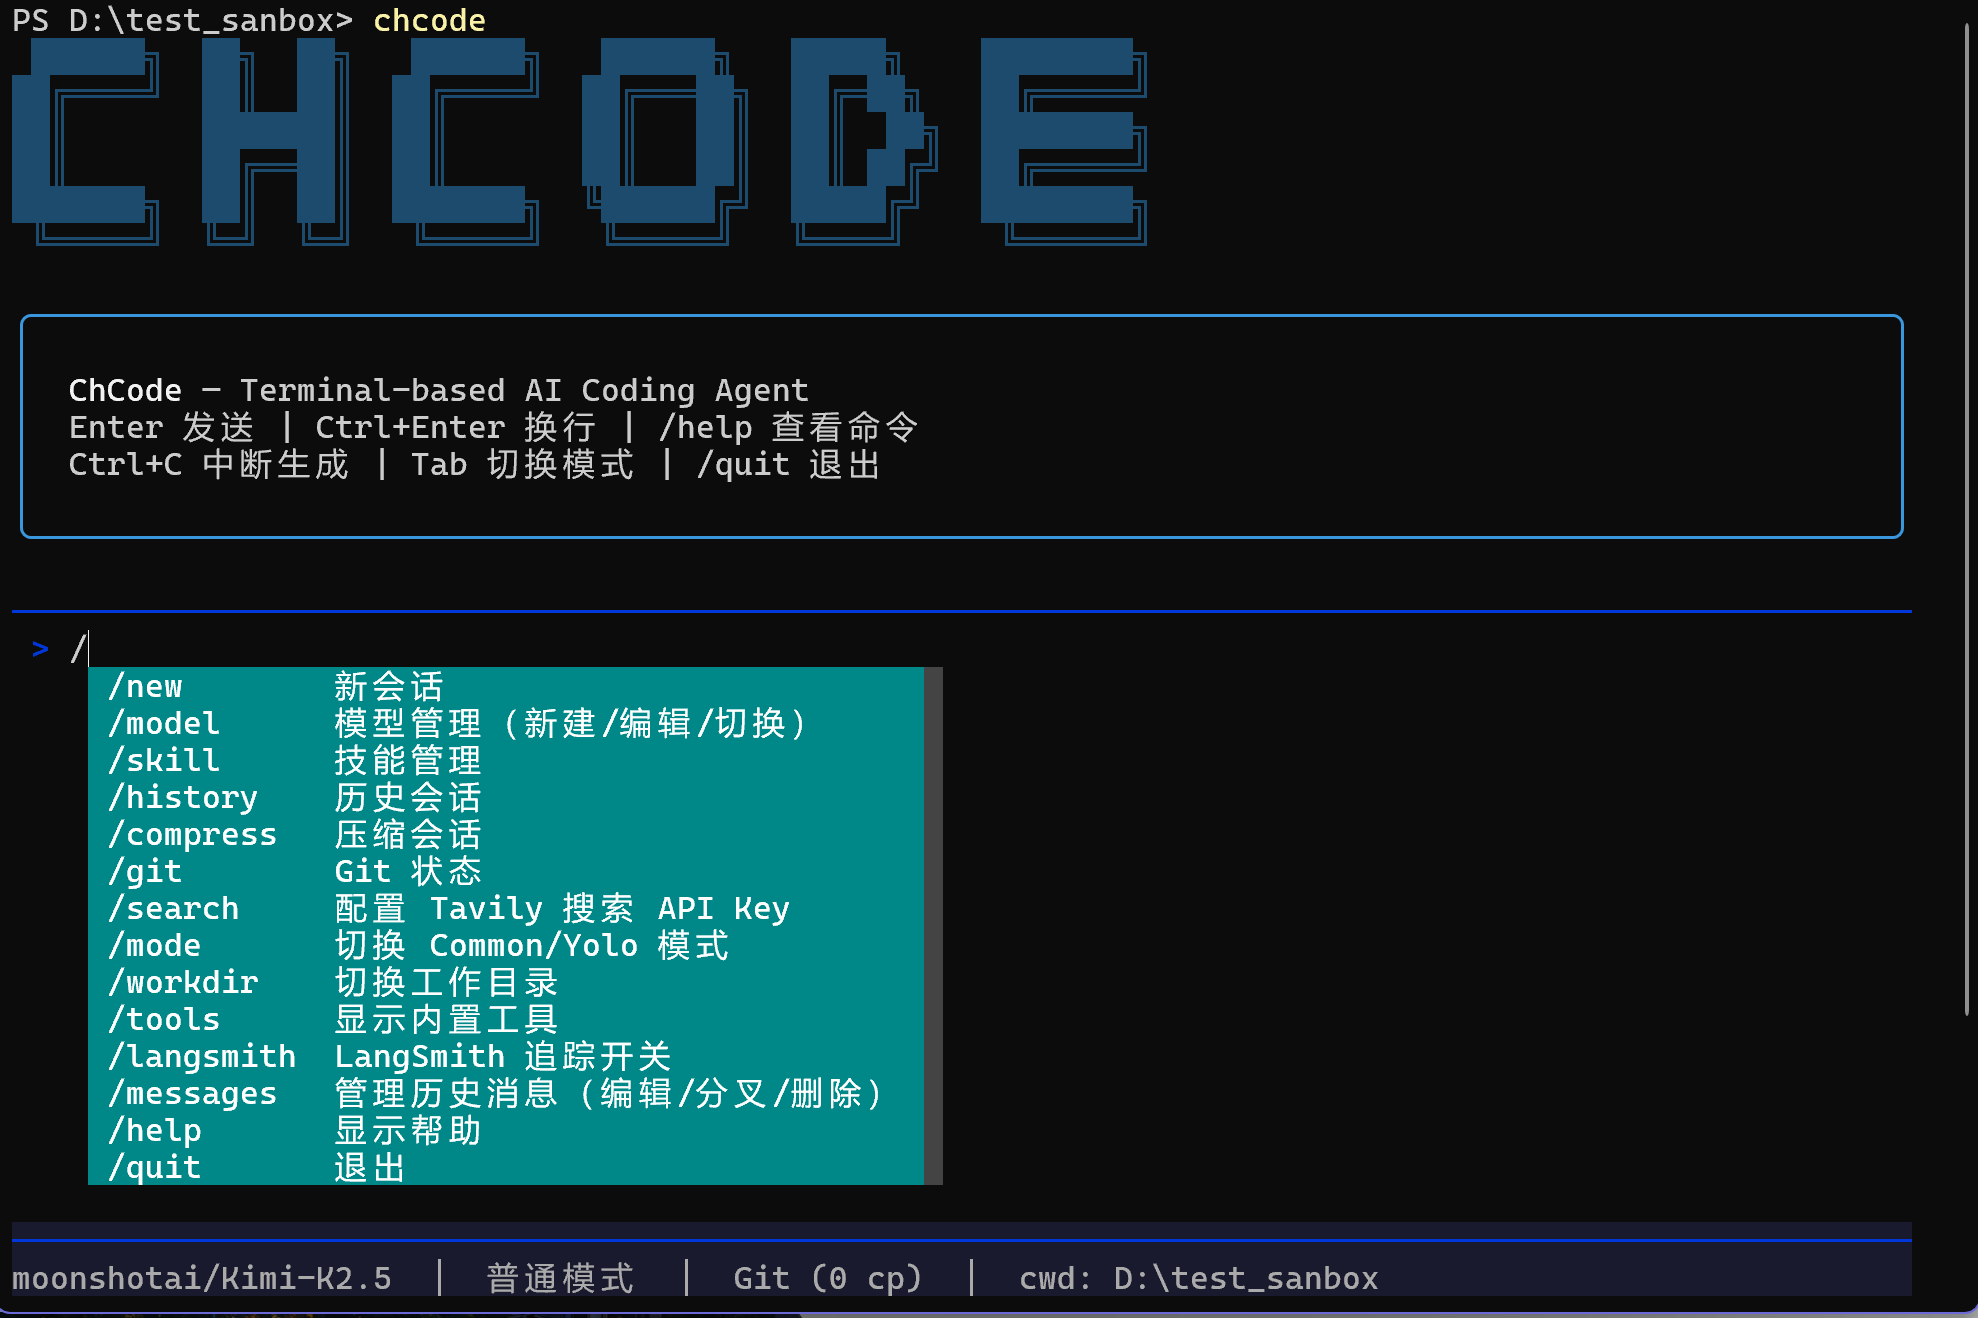
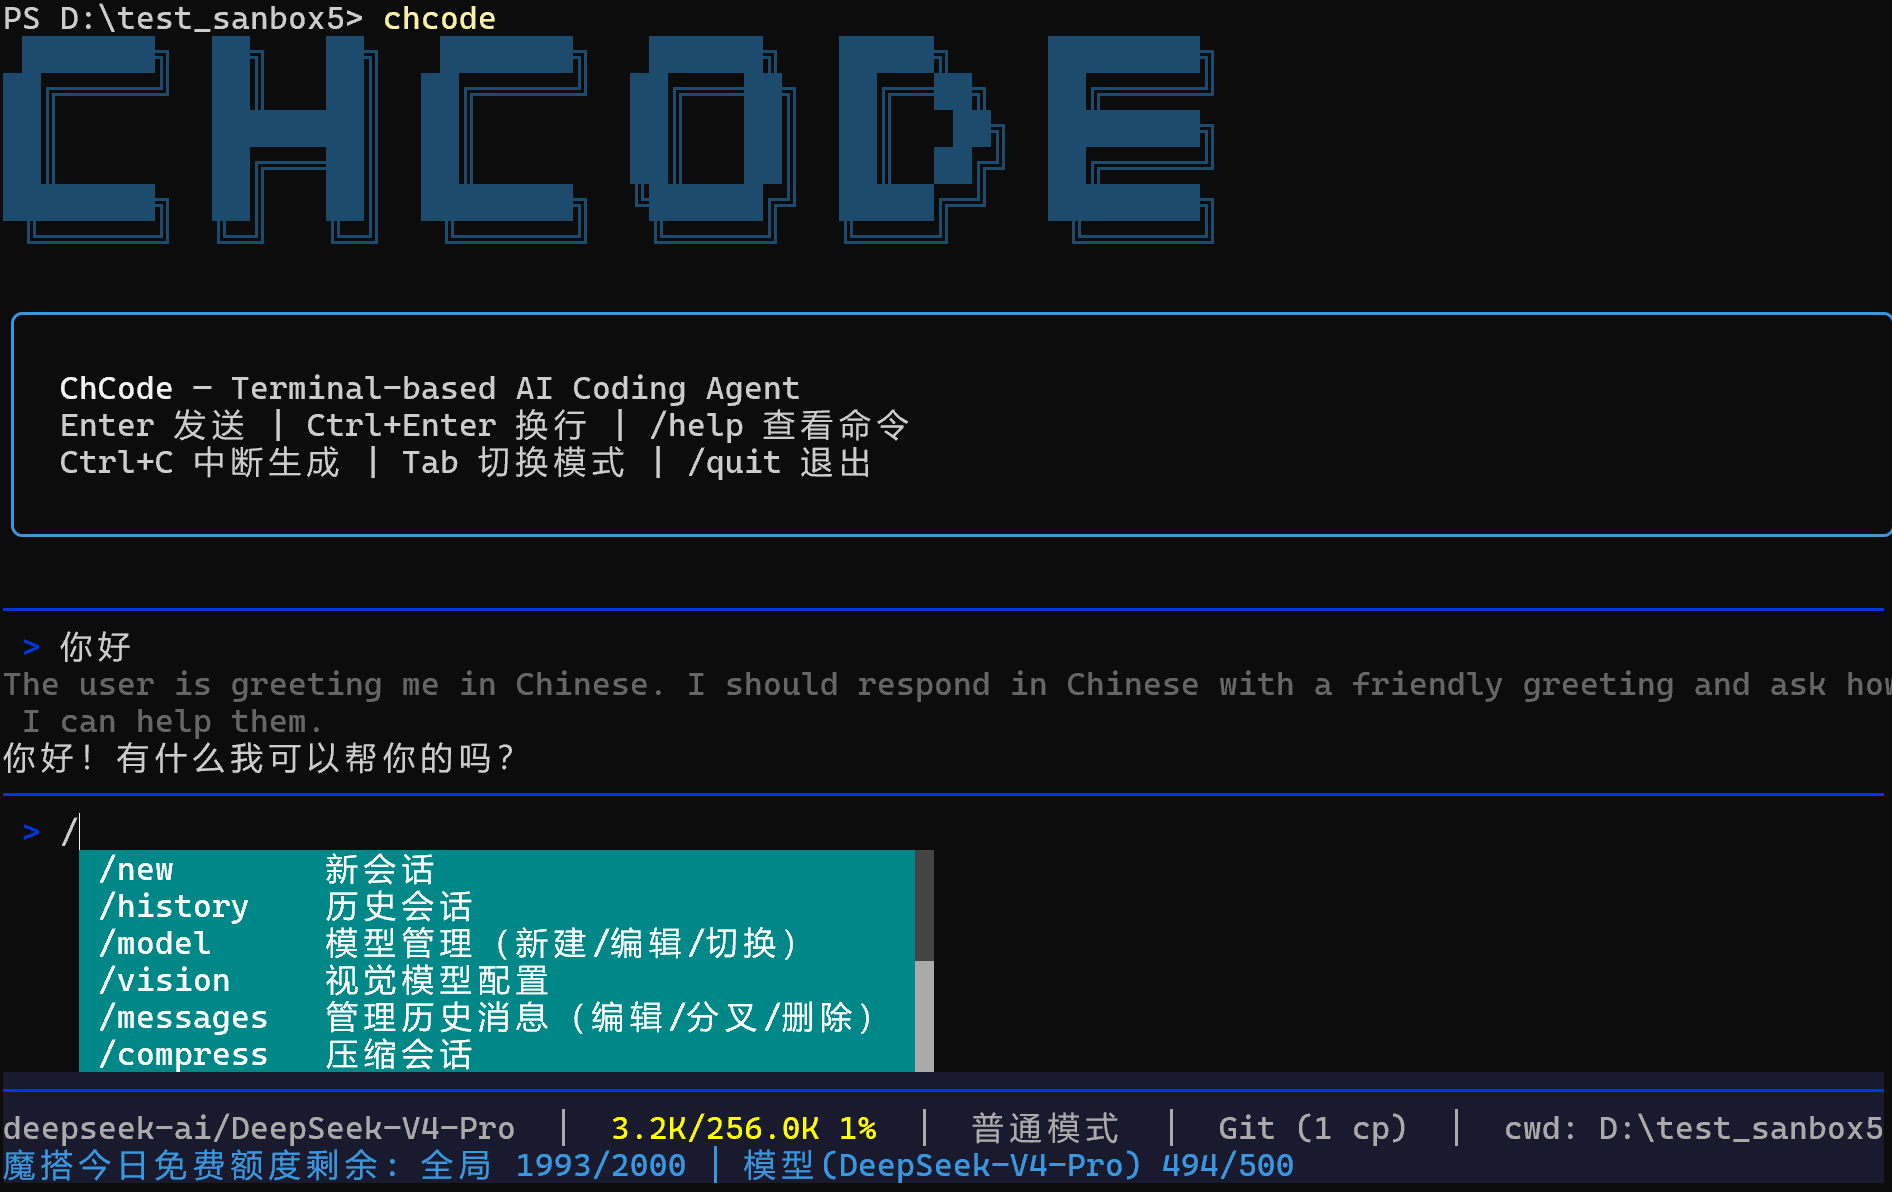
docs: add Chinese README, update screenshot and features overview

diff --git a/README_zh.md b/README_zh.md
@@ -1,0 +1,239 @@
+# ChCode
+
+```
+ ███████╗  ██╗   ██╗   ███████╗   ██████╗   █████╗     ████████╗
+██╔═════╝  ██║   ██║  ██╔═════╝  ██╔═══██╗  ██╔══██╗   ██╔═════╝
+██║        ████████║  ██║        ██║   ██║  ██║   ██╗  ████████╗
+██║        ██╔═══██║  ██║        ██║   ██║  ██║  ██╔╝  ██╔═════╝
+████████╗  ██║   ██║  ████████╗  ╚██████╔╝  █████╔═╝   ████████╗
+ ╚══════╝  ╚═╝   ╚═╝   ╚══════╝   ╚═════╝   ╚════╝      ╚══════╝
+```
+
+基于终端的 AI 编程代理，使用 LangChain + Typer + Rich 构建。
+
+> **为什么叫 "ChCode"？** 最初的原型是一个 tkinter + LangChain 应用，名为 **chat-agent**（chagent）。当它演变为 CLI 工具后，名字变成了 **ChCode** — chat-agent 遇上 code。
+
+<details>
+<summary>📸 chagent — 最初的 tkinter 原型</summary>
+<img src="https://raw.githubusercontent.com/ScarletMercy/chcode/main/assets/chagent.png" alt="chagent prototype" width="600"/>
+</details>
+
+> 6000+ 行 Python 代码，14 个内置工具，完整会话持久化，Git 感知工作流。
+
+![Python 3.13+](https://img.shields.io/badge/python-3.13%2B-blue)
+![License](https://img.shields.io/badge/license-MIT-green)
+
+[English](README.md)
+
+<img src="https://raw.githubusercontent.com/ScarletMercy/chcode/main/assets/chcode.png" alt="ChCode 主界面" width="800"/>
+
+## 功能特性
+
+### 模型管理
+
+- 兼容**所有 OpenAI 兼容 API**（OpenAI、DeepSeek、Qwen、GLM、Claude 代理等）
+- 内置 **ModelScope**、**LongCat** 等主流平台快捷配置
+- **ModelScope**：每天 2000 次免费模型调用
+- **LongCat**：每天最低 5000 万+ 免费 token
+- 首次运行向导，**自动检测环境变量**（扫描 `OPENAI_API_KEY`、`DEEPSEEK_API_KEY`、`ZHIPU_API_KEY`、`ModelScopeToken` 等）
+- 原生支持 **reasoning/thinking 模型** — 实时显示思考过程
+- 运行时创建 / 编辑 / 切换模型
+- 每个模型独立调参（temperature、top_p、top_k、max_completion_tokens、stop_sequences 等）
+- **指数退避自动重试**（3/10/30/60s），持续失败时自动切换备用模型
+
+### 视觉与多模态
+
+- 通过 `/vision` 命令独立配置视觉模型（与主模型分离）
+- 图片分析，支持**自动媒体编码**和 base64 嵌入
+- **视频支持** — 直接将视频发送给视觉模型进行分析（MP4、MOV、AVI、MKV、WebM）
+- 大尺寸图片自动缩放
+- 支持的图片格式：PNG、JPG、JPEG、GIF、BMP、WebP、TIFF
+
+### 会话与历史
+
+- **持久化会话**，基于 SQLite 的检查点存储（LangGraph）
+- 会话列表、切换、重命名、删除
+- **上下文压缩** — 接近 token 上限时自动摘要
+- 状态栏实时显示**上下文使用量**
+
+### Git 集成
+
+- 编辑消息时工作目录**自动回滚**
+- 从任意消息**创建分支**（fork）
+- 通过 `/messages` 编辑 / fork / 删除历史消息
+- 状态栏显示检查点计数
+
+### 人工审核
+
+- **Common 模式** — 每次工具调用需要确认，编辑操作显示 diff 预览
+- **YOLO 模式** — 自动批准所有操作
+- 通过 `Tab` 键或 `/mode` 命令切换
+
+### 工作环境隔离
+
+- 每个项目独立的 `.chat/` 目录存放会话、技能、代理
+- 全局 `~/.chat/` 存放共享技能和设置
+- `/workdir` 切换项目根目录
+
+### 跨平台
+
+- **Windows** — 默认使用 Git Bash，回退到 PowerShell
+- **Linux / Mac** — 原生 bash/zsh
+- 持久化 Shell 会话，**自动追踪 CWD**
+
+### 终端 UI
+
+- 实时**状态栏** — 上下文使用率、Git 检查点数、ModelScope API 配额
+- **流式输出**，逐 token 渲染
+- 斜杠命令自动补全
+- 彩色工具审核界面，文件编辑显示**行内 diff 预览**
+
+### 可观测性
+
+- **LangSmith 追踪** — 通过 `/langsmith` 命令开关
+- 遇到 429 限流时自动禁用追踪并通知用户
+
+### 子代理系统
+
+- 三种内置代理类型：**Explore**（代码库搜索，只读）、**Plan**（架构设计）、**General**（全能力编程）
+- **并行执行** — 同时启动多个代理处理独立任务
+- 子代理运行在**隔离上下文**中，保护主对话不被上下文污染
+- **自定义代理** — 在 `.chat/agents/` 中定义自己的代理类型，配备专属工具和指令
+
+### 技能系统
+
+- 通过 `/skill` 安装 / 删除 / 管理技能
+- 技能通过 LangChain 中间件注入系统提示
+- 支持项目级和全局技能目录
+
+### ModelScope 限额监控
+
+- 状态栏实时显示 **API 配额**（每日剩余额度、每模型剩余额度）
+- 使用 ModelScope 模型时自动启用
+
+## 内置工具（14 个）
+
+| 工具 | 说明 |
+|------|------|
+| `read` | 读取文件内容，支持行号和偏移量 |
+| `write` | 创建或覆盖文件 |
+| `edit` | 精准字符串替换编辑现有文件 |
+| `glob` | 按文件名模式查找文件 |
+| `grep` | 用正则搜索文件内容 |
+| `list_dir` | 浏览目录结构 |
+| `bash` | 执行 Shell 命令（Git Bash / PowerShell / bash） |
+| `load_skill` | 通过中间件动态加载技能指令 |
+| `web_fetch` | 抓取 URL 内容并转换为 Markdown |
+| `web_search` | 通过 [Tavily](https://tavily.com) 进行网络搜索 |
+| `ask_user` | 单选、多选、批量问题与用户交互 |
+| `agent` | 启动子代理（explore、plan、general、custom），支持并行执行 |
+| `todo_write` | 结构化任务追踪，适用于复杂多步骤工作 |
+| `vision` | 通过视觉模型分析图片和视频 |
+
+## 快速开始
+
+### 安装
+
+```bash
+# 方式一：使用 uv 全局安装（推荐）
+uv tool install git+https://github.com/ScarletMercy/chcode.git
+
+# 方式二：克隆并用 uv 安装
+git clone https://github.com/ScarletMercy/chcode.git
+cd chcode
+uv sync
+uv run chcode
+
+# 方式三：使用 pipx 全局安装
+pipx install git+https://github.com/ScarletMercy/chcode.git
+
+# 方式四：克隆并用 pip 安装
+git clone https://github.com/ScarletMercy/chcode.git
+cd chcode
+pip install -e .
+```
+
+### 运行
+
+```bash
+# 启动交互式会话
+chcode
+
+# 以 YOLO 模式启动
+chcode --yolo
+
+# 模型管理
+chcode config new    # 添加新模型
+chcode config edit   # 编辑当前模型
+chcode config switch # 切换模型
+```
+
+### 首次运行
+
+首次启动时，ChCode 会：
+
+1. 扫描环境变量中的已知 API Key
+2. 引导你完成模型配置
+3. 可选配置 Tavily 用于网络搜索
+
+## 命令
+
+| 命令 | 说明 |
+|------|------|
+| `/new` | 新建会话 |
+| `/history` | 浏览和切换会话 |
+| `/model` | 模型管理（新建 / 编辑 / 切换） |
+| `/vision` | 视觉模型配置 |
+| `/messages` | 编辑 / fork / 删除历史消息 |
+| `/compress` | 压缩当前会话 |
+| `/skill` | 管理技能 |
+| `/search` | 配置 Tavily API Key |
+| `/workdir` | 切换工作目录 |
+| `/mode` | 切换 Common / YOLO 模式 |
+| `/git` | 显示 Git 状态 |
+| `/langsmith` | 开关 LangSmith 追踪 |
+| `/tools` | 列出内置工具 |
+| `/quit` | 退出 |
+
+## 快捷键
+
+| 按键 | 操作 |
+|------|------|
+| `Enter` | 发送消息 |
+| `Ctrl+Enter` | 换行 |
+| `Tab` | 切换 Common/YOLO 模式（输入为空时） |
+| `Ctrl+C` | 中断生成 |
+
+## 为什么不用 MCP？
+
+ChCode 故意不集成 MCP（Model Context Protocol）。**技能 + CLI 工具**的组合覆盖了 95%+ 的真实编程代理场景。技能通过中间件注入结构化、可复用的指令 — 比 MCP 服务器更简单、更快、更轻量。
+
+## 架构
+
+```
+chcode/
+├── cli.py                  # Typer CLI 入口
+├── chat.py                 # REPL 主循环、斜杠命令、人工审核
+├── agent_setup.py          # 代理构建、中间件、模型重试与回退
+├── config.py               # 模型配置、Tavily、环境变量检测
+├── display.py              # Rich 渲染、流式输出、状态栏
+├── prompts.py              # 交互式提示（选择/确认/文本）
+├── session.py              # 会话管理器（SQLite）
+├── skill_manager.py        # 技能安装/删除 UI
+├── agents/
+│   ├── definitions.py      # 代理类型（explore、plan、general）
+│   ├── loader.py           # 从 .chat/agents/ 加载自定义代理
+│   └── runner.py           # 子代理执行（含中间件）
+└── utils/
+    ├── tools.py            # 14 个内置工具
+    ├── shell/              # Shell 抽象层（Bash/PowerShell 提供者）
+    ├── enhanced_chat_openai.py  # 扩展 ChatOpenAI，支持 reasoning
+    ├── git_manager.py      # Git 检查点管理
+    ├── skill_loader.py     # 技能发现与加载
+    ├── modelscope_ratelimit.py  # ModelScope API 限额监控
+    └── tool_result_pipeline.py  # 输出截断与预算控制
+```
+
+## 许可证
+
+MIT

diff --git a/README.md b/README.md
@@ -23,19 +23,31 @@ Terminal-based AI coding agent, built with LangChain + Typer + Rich.
 ![Python 3.13+](https://img.shields.io/badge/python-3.13%2B-blue)
 ![License](https://img.shields.io/badge/license-MIT-green)
 
-## Demo
+[中文文档](README_zh.md)
 
-https://github.com/ScarletMercy/chcode/blob/main/assets/test.mp4
+<img src="https://raw.githubusercontent.com/ScarletMercy/chcode/main/assets/chcode.png" alt="ChCode main interface" width="800"/>
 
 ## Features
 
 ### Model Management
 
 - Compatible with **all OpenAI-compatible APIs** (OpenAI, DeepSeek, Qwen, GLM, Claude via proxy, etc.)
-- First-run wizard with **env auto-detection** (scans `OPENAI_API_KEY`, `DEEPSEEK_API_KEY`, `ZHIPU_API_KEY`, etc.)
+- Built-in quick setup for **ModelScope**, **LongCat**, and major providers
+- **ModelScope**: 2000 free model calls/day
+- **LongCat**: 50M+ free tokens/day minimum
+- First-run wizard with **env auto-detection** (scans `OPENAI_API_KEY`, `DEEPSEEK_API_KEY`, `ZHIPU_API_KEY`, `ModelScopeToken`, etc.)
+- Native **reasoning/thinking model** support — thinking tokens displayed in real time
 - Create / edit / switch models at runtime
 - Per-model hyperparameter tuning (temperature, top_p, top_k, max_completion_tokens, stop_sequences, etc.)
 - Automatic **retry with exponential backoff** (3/10/30/60s) and fallback model switching on persistent failure
+
+### Vision & Multimodal
+
+- Dedicated vision model configuration via `/vision` command (independent from main model)
+- Image analysis with **automatic media encoding** and base64 embedding
+- **Video support** — send videos directly to vision models for analysis (MP4, MOV, AVI, MKV, WebM)
+- Automatic image resizing for oversized inputs
+- Supported image formats: PNG, JPG, JPEG, GIF, BMP, WebP, TIFF
 
 ### Session & History
 
@@ -69,10 +81,24 @@ https://github.com/ScarletMercy/chcode/blob/main/assets/test.mp4
 - **Linux / Mac** — native bash/zsh
 - Persistent shell sessions with **automatic CWD tracking**
 
+### Rich Terminal UI
+
+- Real-time **status bar** — context usage %, git checkpoint count, ModelScope API quota
+- **Streaming output** with token-by-token rendering
+- Slash command auto-completion
+- Color-coded tool approval UI with **inline diff preview** for file edits
+
 ### Observability
 
 - **LangSmith tracing** — toggle on/off via `/langsmith` command
 - Auto-disable tracing on 429 rate limit with user notification
+
+### Sub-Agent System
+
+- Three built-in agent types: **Explore** (codebase search, read-only), **Plan** (architecture design), **General** (full-capability coding)
+- **Parallel execution** — launch multiple agents concurrently for independent tasks
+- Sub-agents run with **isolated context**, protecting the main conversation from context pollution
+- **Custom agents** — define your own agent types in `.chat/agents/` with dedicated tools and instructions
 
 ### Skill System
 
@@ -100,7 +126,7 @@ https://github.com/ScarletMercy/chcode/blob/main/assets/test.mp4
 | `web_fetch` | Fetch and convert URL content to markdown |
 | `web_search` | Web search via [Tavily](https://tavily.com) |
 | `ask_user` | Single-select, multi-select, batch questions for user interaction |
-| `agent` | Launch sub-agents (explore, plan, general-purpose), supports parallel execution |
+| `agent` | Launch sub-agents (explore, plan, general-purpose, custom), supports parallel execution |
 | `todo_write` | Structured task tracking for complex multi-step work |
 | `vision` | Analyze images and videos via ModelScope vision models |
 
